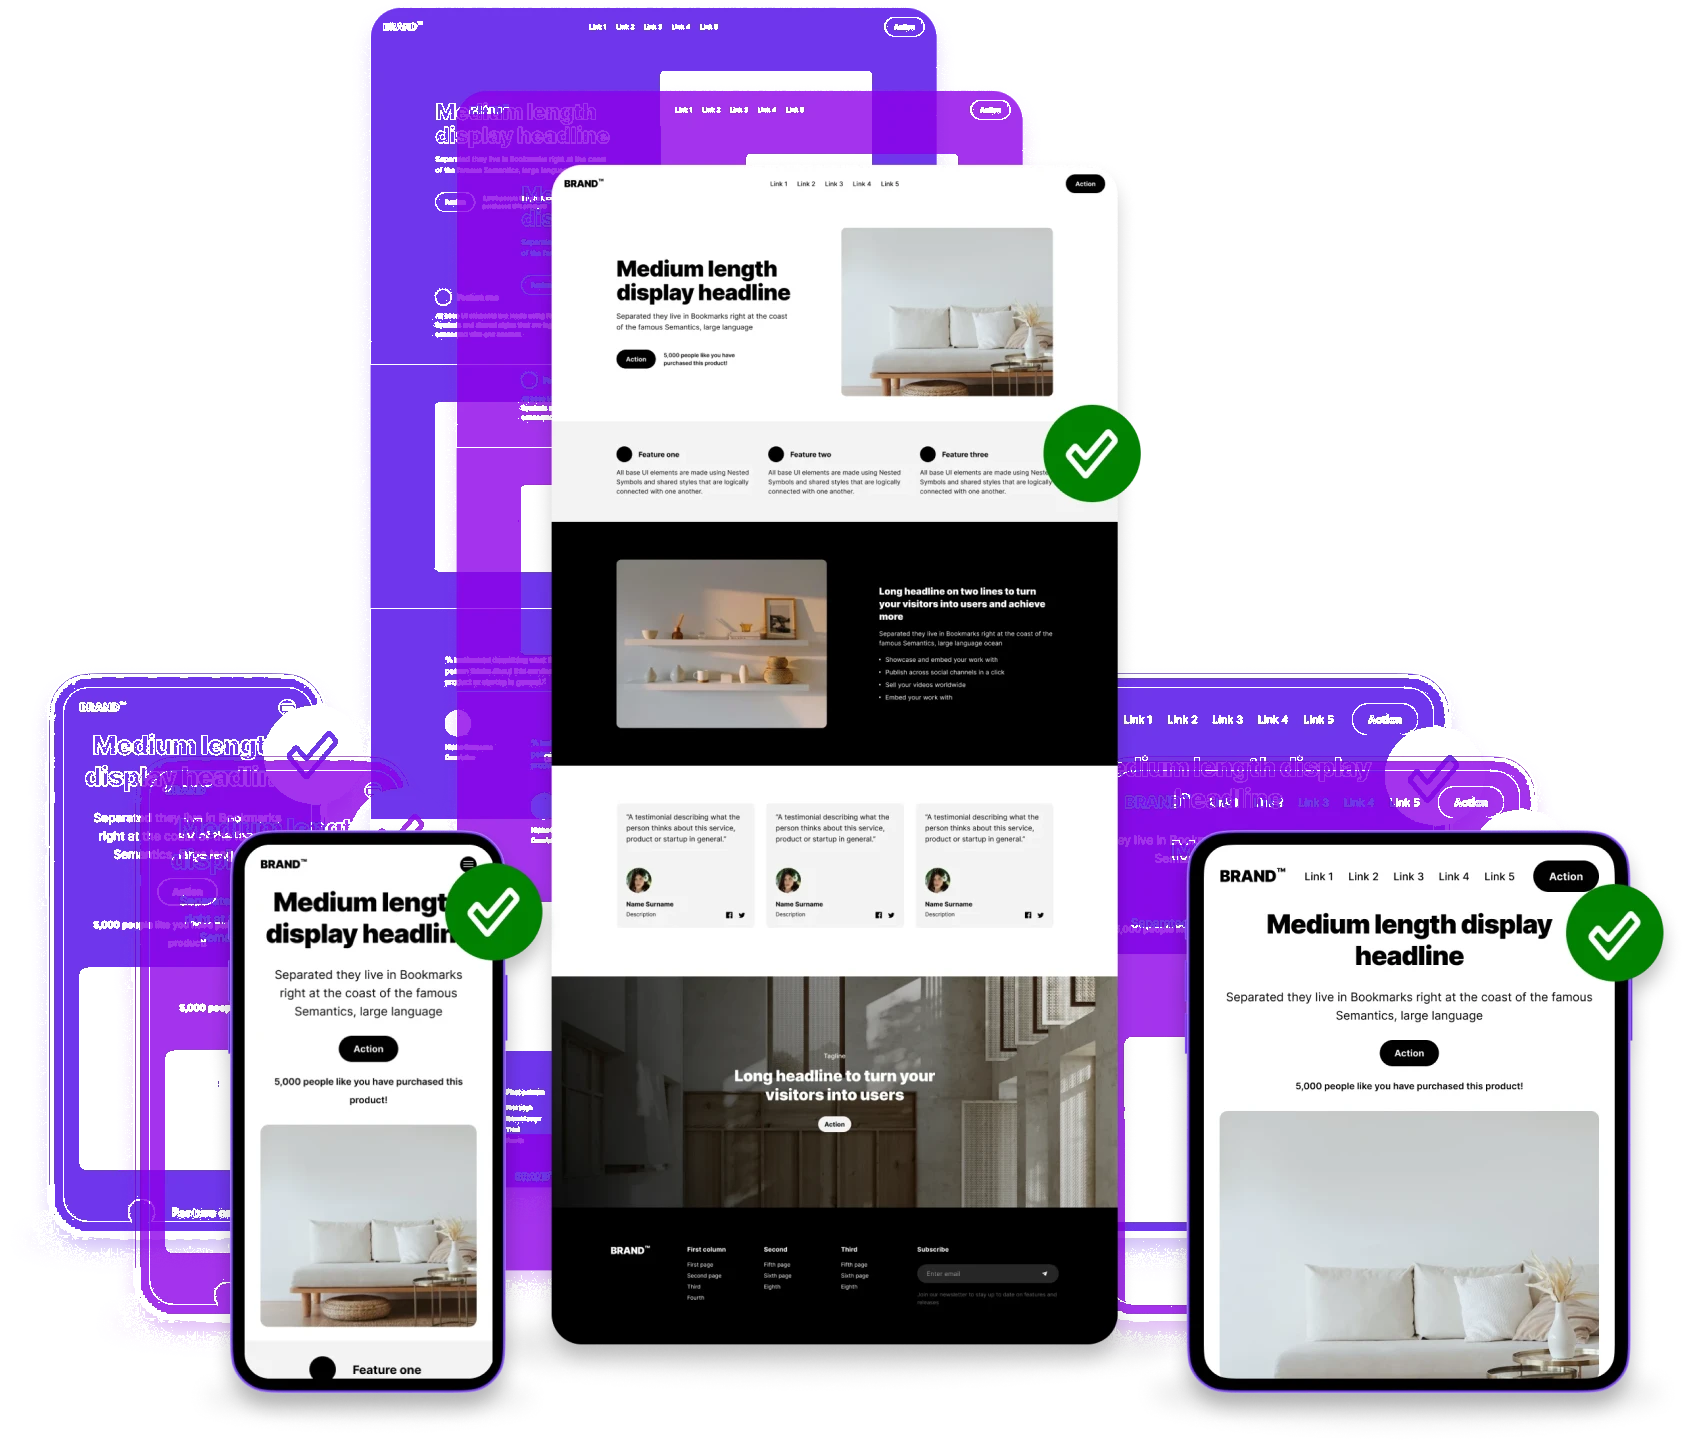
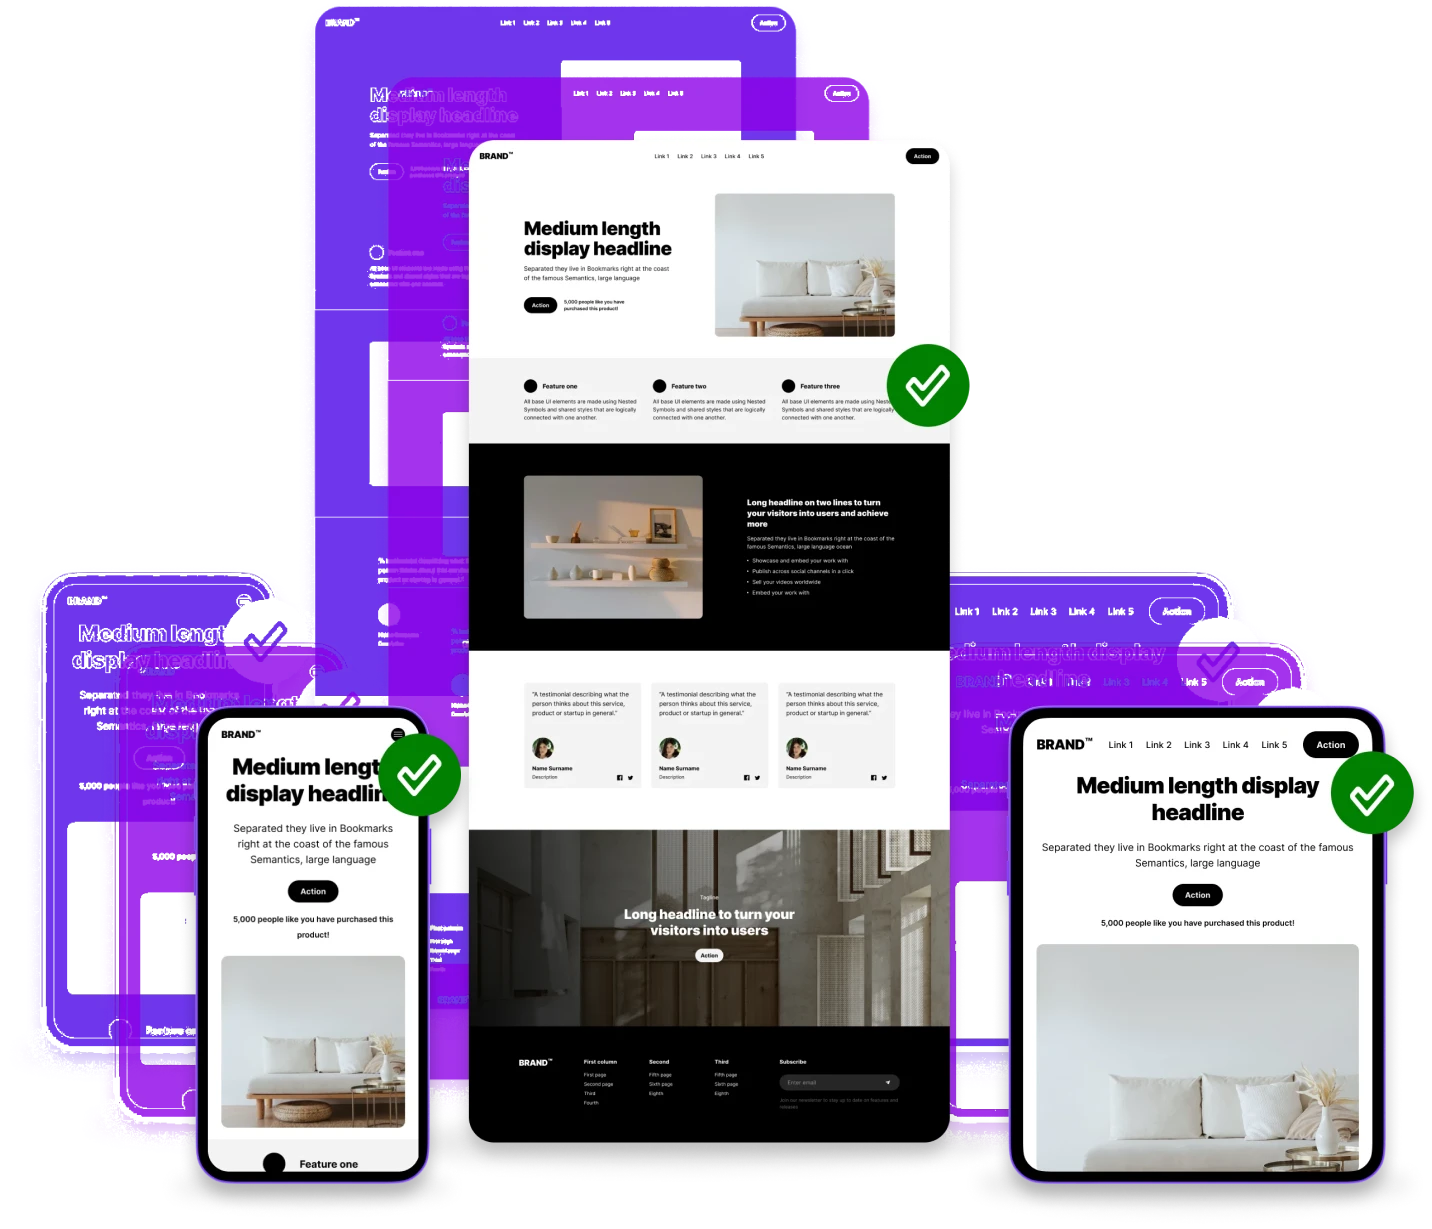
change colors

diff --git a/frontend/src/components/Hero.js b/frontend/src/components/Hero.js
@@ -9,7 +9,7 @@ const Hero = ({ data }) => {
         <div className="home mx-auto pb-24 px-4 sm:px-6 mt-28">
             <div className="mt-8 container">
                 <div className="max-w-full hero-content flex-col xl:flex-row-reverse justify-between mx-auto p-0">
-                    <div className="max-w-3xl w-full h-full">
+                    <div className="max-w-2xl w-full h-full">
                         <div className="flex justify-center p-0 xl:px-4 py-4 xl:py-0 max-h-screen">
                             <img width="1500" height="1200" src={data.image} alt={data.alt} className="slide-in-right hero-img object-contain max-full w-full" />
                         </div>
@@ -18,7 +18,7 @@ const Hero = ({ data }) => {
                         <span className="w-20 h-2 mb-12"></span>
                         <h1 className="flex flex-col text-5xl font-black leading-none font-bebas-neue sm:text-8xl">
                             {data.title}
-                            <span className="text-3xl sm:text-5xl max-w-3xl">
+                            <span className="text-3xl sm:text-5xl max-w-3xl text-base-content font-bold">
                                 {data.subtitle}
                             </span>
                         </h1>
@@ -26,10 +26,10 @@ const Hero = ({ data }) => {
                             {data.description}
                         </p>
                         <div className="mt-8 mx-auto text-center lg:text-left btn-group">
-                            <a href={data.link} className="btn px-4 py-2 btn-primary border-2">
+                            <a href={data.link} className="btn px-4 py-2 btn-secondary border-2">
                                 {data.btn ? data.btn : "Learn more"}
                             </a>
-                            <a href={data.link2} className="px-4 py-0 mr-4 btn btn-outline btn-primary text-md ">
+                            <a href={data.link2} className="px-4 py-0 mr-4 btn btn-outline btn-secondary text-md ">
                                 <div className={`flex items-center justify-center hover:text-white ${theme === 'dark' ? 'text-white' : 'text-primary'}`}>
                                     <span className="mr-2 mt-1">{data.btn2 ? data.btn2 : "Learn more"}</span>
                                     <ArrowBendRightDown size={22} weight="bold"></ArrowBendRightDown>

diff --git a/frontend/src/components/Features3.js b/frontend/src/components/Features3.js
@@ -15,7 +15,7 @@ const Features3 = (props) => {
                                 </p>
                                 {data[0].button && (
                                     <div className="mt-8 max-w-md mx-0 hidden lg:block">
-                                        <a href="#contact" className="btn px-4 py-2 btn-primary border-2">
+                                        <a href="#contact" className="btn px-4 py-2 btn-secondary border-2">
                                             {data[0].button}
                                         </a>
                                     </div>
@@ -45,7 +45,7 @@ const Features3 = (props) => {
                             </ul>
                             {data[0].button && (
                                 <div className="mt-8 max-w-md mx-0 block lg:hidden">
-                                    <a href="#contact" className="btn px-4 py-2 btn-primary border-2">
+                                    <a href="#contact" className="btn px-4 py-2 btn-secondary border-2">
                                         {data[0].button}
                                     </a>
                                 </div>

diff --git a/frontend/src/components/Navbar.js b/frontend/src/components/Navbar.js
@@ -77,8 +77,8 @@ const NavBar = () => {
                         </Link>
                     </div>
                     <div className="hidden lg:flex me-6">
-                        <a href="#contact" className="ml-6 btn btn-outline btn-primary rounded-lg py-0" >
-                            <span className={`${theme === 'dark' ? 'text-white' : 'text-primary hover:text-white'}`}>
+                        <a href="#contact" className="ml-6 btn btn-outline btn-secondary rounded-lg py-0" >
+                            <span className={`${theme === 'dark' ? 'text-white' : 'text-secondary hover:text-white'}`}>
                                 Get started
                             </span>
                         </a>

diff --git a/frontend/src/components/Why.js b/frontend/src/components/Why.js
@@ -10,7 +10,7 @@ const Why = () => {
                     Studies show that 52% of users are less likely to engage with a website that is not mobile-friendly. We are here to help you build a mobile-friendly website that will help you grow your business.
                 </p>
                 <div className="mt-8 max-w-md mx-0 md:mx-auto">
-                    <a href="#contact" className="btn px-4 py-2 btn-primary border-2">
+                    <a href="#contact" className="btn px-4 py-2 btn-secondary border-2">
                         Get started
                     </a>
                 </div>

diff --git a/frontend/src/components/ContactForm.js b/frontend/src/components/ContactForm.js
@@ -124,7 +124,7 @@ const ContactForm = () => {
                     {errors.message && <p className="absolute -bottom-2 left-2 text-xs text-red-500">{errors.message}</p>}
                 </div>
 
-                <button className="btn btn-primary w-full" type="submit" disabled={Object.keys(errors).length > 0}>
+                <button className="btn btn-secondary w-full" type="submit" disabled={Object.keys(errors).length > 0}>
                     Send &nbsp;<PaperPlaneTilt size={20} />
                 </button>
             </form>

diff --git a/frontend/src/components/Features4.js b/frontend/src/components/Features4.js
@@ -11,7 +11,7 @@ const Features4 = (...data) => {
                 </p>
                 {button &&
                     <div className="mt-8 max-w-md mx-0 md:mx-auto">
-                        <a href="#contact" className="btn px-4 py-2 btn-primary border-2">
+                        <a href="#contact" className="btn px-4 py-2 btn-secondary border-2">
                             {button}
                         </a>
                     </div>}
